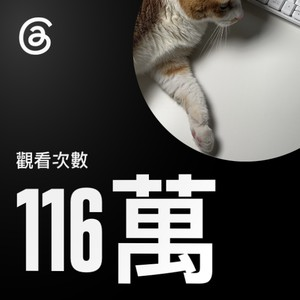
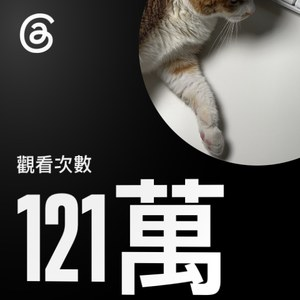
合作頁 Threads 121 萬、首頁烤香腸加脆 2 萬+ 標籤

Changed region(s): [[0.03, 0.48, 0.75, 0.99], [0.42, 0.0, 1.0, 0.57], [0.06, 0.03, 0.18, 0.18]]

diff --git a/work/index.html b/work/index.html
@@ -173,7 +173,7 @@ document.addEventListener("click", function (e) {
 
   <h2><span>大家都在玩</span></h2>
   <div class="stats">
-    <div class="stat"><img class="pic" src="../images/work-threads.jpg" alt="" width="300" height="300"><div><b>116<small> 萬</small></b><p>Threads 過去 30 天<br>貼文瀏覽次數</p></div></div>
+    <div class="stat"><img class="pic" src="../images/work-threads.jpg" alt="" width="300" height="300"><div><b>121<small> 萬</small></b><p>Threads 過去 30 天<br>貼文瀏覽次數</p></div></div>
     <div class="stat"><img class="pic" src="../images/color.jpg" alt="" width="720" height="597"><div><b>15<small> 萬+</small></b><p>「調色調調看」<br>一篇貼文的瀏覽</p></div></div>
     <div class="stat"><img class="pic" src="../images/work-colorplay.jpg" alt="" width="320" height="273"><div><b>2.4<small> 萬</small></b><p>人次玩過<br>「調色調調看」</p></div></div>
     <div class="stat"><span class="pic stack" aria-hidden="true"><img src="../images/stamp.jpg" alt=""><img src="../images/blocks.jpg" alt=""><img src="../images/boba.jpg" alt=""></span><div><b>20<small> 款</small></b><p>已上架遊戲<br>每週新上 3 款</p></div></div>

diff --git a/index.html b/index.html
@@ -378,7 +378,7 @@ document.addEventListener("click", function (e) {
     <a class="game" href="sausage/">
       <img src="images/sausage.jpg" width="720" height="597" alt="烤爐上排滿香腸，下面是炭火，頭綁毛巾、穿紅白格子圍裙的賓士貓老闆站在攤子後面，上面是紅白遮雨棚和燈泡">
       <div class="info">
-        <span class="by">生活貓<span class="badge new">NEW</span></span>
+        <span class="by">生活貓<span class="badge new">NEW</span><span class="badge">🔥 脆 2 萬+ 瀏覽</span></span>
         <h2>烤到凌晨三點</h2>
         <p>夜市香腸攤開張！香腸烤到會翻面、兩面熟就交給客人，要蒜就夾蒜，小心炭火突然變大，撐得到凌晨三點嗎？</p>
         <span class="play">開始玩</span>
